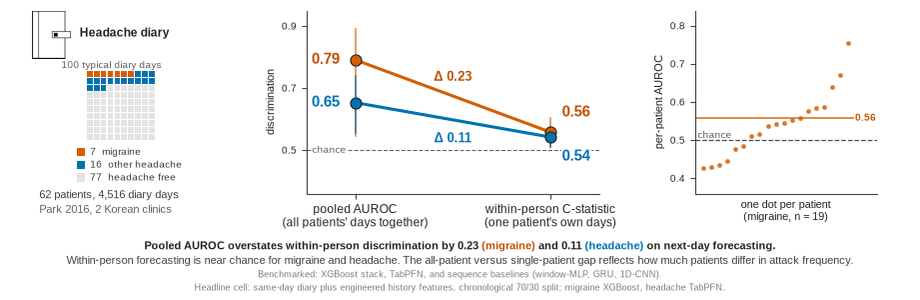
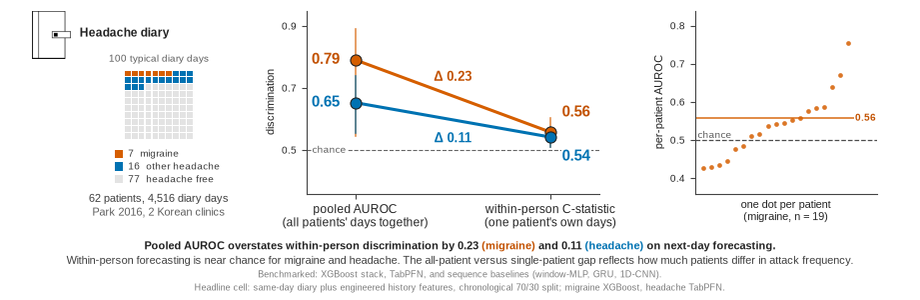
layot

Changed region(s): [[0.0304, 0.18, 0.2435, 0.72]]

diff --git a/docs/methodAndResults_diagramCreatorScripts/graphical_abstract.py b/docs/methodAndResults_diagramCreatorScripts/graphical_abstract.py
@@ -101,9 +101,9 @@ def _draw_cohort(ax) -> None:
     ax.text(0.30, 0.875, "Headache diary", fontsize=8.8, fontweight="bold",
             color=S.INK, transform=ax.transAxes, va="center", ha="left")
 
-    ax.text(0.5, 0.700, "100 typical diary days", fontsize=7.4, color="#5f5f5f",
+    ax.text(0.80, 0.735, "100 typical diary days", fontsize=7.4, color="#5f5f5f",
             transform=ax.transAxes, va="center", ha="center")
-    gax = ax.inset_axes([0.06, 0.290, 1.0, 0.38])
+    gax = ax.inset_axes([0.30, 0.295, 1.0, 0.38])
     gax.set_xlim(0, 10); gax.set_ylim(0, 10)
     gax.set_aspect("equal"); gax.axis("off")
     n_mig, n_hea = 7, 23                      # per 100 days: 7.2% and 23.5%
@@ -122,16 +122,16 @@ def _draw_cohort(ax) -> None:
               (hea_col, "16  other headache"),
               ("#e3e3e3", "77  headache free")]
     for i, (col, lab) in enumerate(legend):
-        yy = 0.205 - i * 0.070
+        yy = 0.195 - i * 0.070
         ax.add_patch(Rectangle((gx0, yy), 0.055, 0.045, fc=col, ec="none",
                                transform=ax.transAxes, clip_on=False))
         ax.text(gx0 + 0.085, yy + 0.021, lab, fontsize=7.4, color="#3d3d3d",
                 transform=ax.transAxes, va="center", ha="left")
 
-    ax.text(0.045, -0.010, "62 patients, 4,516 diary days", fontsize=7.6, color="#3d3d3d",
-            transform=ax.transAxes, va="center", ha="left")
-    ax.text(0.045, -0.090, "Park 2016, 2 Korean clinics", fontsize=7.6, color="#5f5f5f",
-            transform=ax.transAxes, va="center", ha="left")
+    ax.text(0.80, -0.030, "62 patients, 4,516 diary days", fontsize=7.6, color="#3d3d3d",
+            transform=ax.transAxes, va="center", ha="center")
+    ax.text(0.80, -0.105, "Park 2016, 2 Korean clinics", fontsize=7.6, color="#5f5f5f",
+            transform=ax.transAxes, va="center", ha="center")
 
 
 def _draw_slopegraph(ax) -> None:
